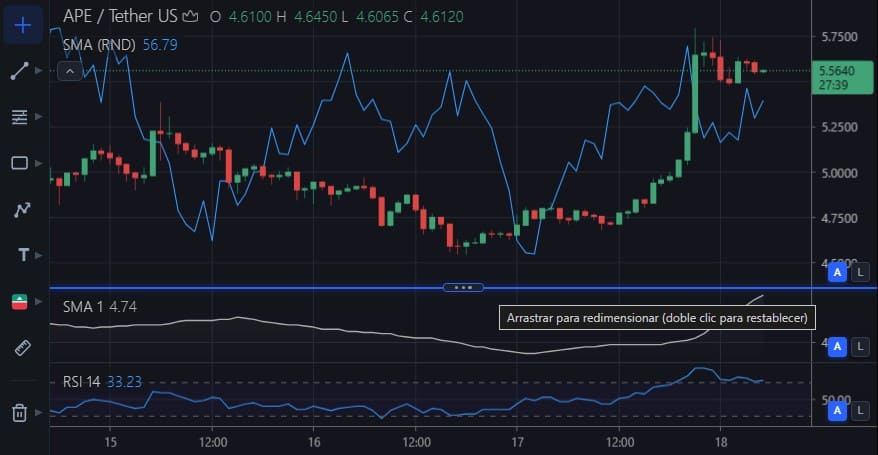
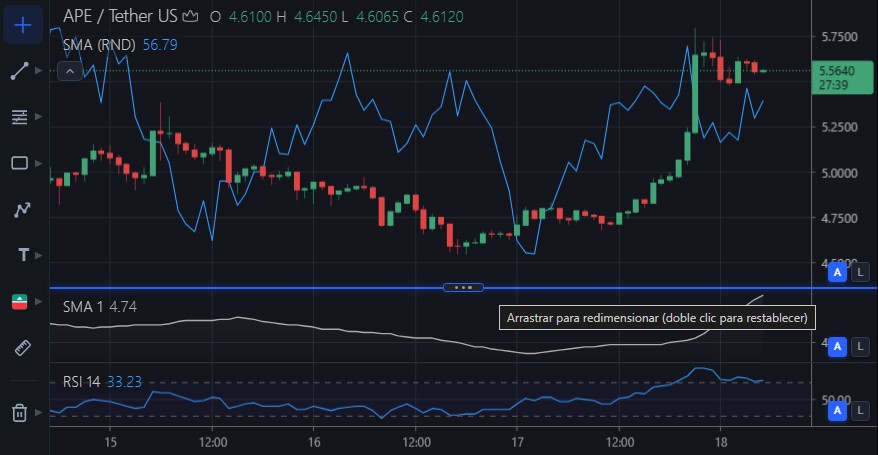
docs: add project overview and AI development skills to readmes and include preview chart image

Changed region(s): [[0.5843, 0.6769, 0.9226, 0.7077], [0.123, 0.8308, 0.1538, 0.8615]]

diff --git a/README.es.md b/README.es.md
@@ -13,6 +13,14 @@
 
 <img src="./docs/docs/public/chart2.jpg" alt="Vista previa de NightVision Charts" width="100%" style="border-radius: 8px; box-shadow: 0 4px 20px rgba(0,0,0,0.3);" />
 
+<br/><br/>
+
+### **Librería de gráficos financieros ultrarrápida y altamente personalizable para cripto, acciones y trading profesional.**
+
+**NightVision Charts** es una librería moderna, ligera y de alto rendimiento diseñada para aplicaciones web, exchanges de criptomonedas, plataformas fintech y paneles de trading algorítmico. Construida sobre un motor Canvas 2D acelerado con Svelte, ofrece un renderizado fluido a 60 FPS incluso bajo streaming continuo de datos por WebSocket y configuraciones complejas de múltiples paneles e indicadores.
+
+Ya sea que busques una alternativa abierta y flexible a TradingView, diseñar indicadores propios mediante el motor reactivo **NavyJS** o integrar herramientas interactivas de análisis técnico, NightVision te brinda libertad arquitectónica total sin dependencias pesadas ni ataduras.
+
 </div>
 
 > **Aviso y Atribución:**  
@@ -54,6 +62,13 @@
 
 ### 💾 Persistencia de Dibujos y Plantillas (Layout Persistence)
 - Exporta y restaura el estado completo del gráfico (`saveLayout()` y `loadLayout()`), incluyendo dibujos, indicadores activos, escalas, colores y distribución de paneles en `localStorage` o bases de datos remotas.
+
+### 🤖 Skills de Desarrollo Asistido por IA Incluidas (`.agents/skills/`)
+Este repositorio está preparado para desarrollo con IA e incluye guías y reglas arquitectónicas en `.agents/skills/` diseñadas para asistir a agentes de codificación (Cursor, Claude Code, Copilot, Antigravity, etc.):
+- **`night-vision-tools`**: Reglas matemáticas, proyección de coordenadas y plantillas para crear y mantener herramientas de dibujo interactivas.
+- **`nightvision-datafeed`**: Guía y especificación para implementar adaptadores de datos en tiempo real (WebSockets, paginación histórica y canales avanzados).
+- **`nightvision-indicator-builder`**: Manual de referencia para crear y portar indicadores técnicos y overlays mediante NavyJS.
+- **`nightvision-layout-persistence`**: Serialización de espacios de trabajo, auto-guardado reactivo y adaptadores de almacenamiento (*StorageAdapter*).
 
 ---
 

diff --git a/README.md b/README.md
@@ -13,6 +13,14 @@
 
 <img src="./docs/docs/public/chart2.jpg" alt="NightVision Charts Preview" width="100%" style="border-radius: 8px; box-shadow: 0 4px 20px rgba(0,0,0,0.3);" />
 
+<br/><br/>
+
+### **The ultra-fast, highly customizable charting library for financial markets, crypto, and professional trading.**
+
+**NightVision Charts** is a modern, lightweight, and high-performance financial charting library designed for web applications, crypto exchanges, fintech platforms, and algorithmic trading dashboards. Built on a hardware-accelerated 2D HTML5 Canvas engine with Svelte, it delivers smooth 60 FPS rendering even under high-frequency WebSocket data streams and complex multi-pane indicator setups.
+
+Whether you are building a full-featured TradingView alternative, creating custom algorithmic overlays using the reactive **NavyJS** script engine, or integrating interactive drawing tools, NightVision gives you complete architectural freedom with zero bloated dependencies.
+
 </div>
 
 > **Notice & Attribution:**  
@@ -54,6 +62,13 @@
 
 ### 💾 Layout & Workspace Persistence
 - Export and restore the entire chart state (`saveLayout()` and `loadLayout()`) including drawings, indicators, scales, colors, and pane splits to `localStorage` or remote databases.
+
+### 🤖 AI-Assisted Development Skills Included (`.agents/skills/`)
+This repository is AI-native and comes pre-packaged with curated architectural skills in `.agents/skills/` designed to supercharge development with AI coding agents (Cursor, Claude Code, Copilot, Antigravity, etc.):
+- **`night-vision-tools`**: Architectural rules, coordinate-projection patterns, and templates for building interactive canvas tools.
+- **`nightvision-datafeed`**: Complete guide and contract for implementing streaming WebSockets, order flow, and historical pagination adapters.
+- **`nightvision-indicator-builder`**: Reference manual for creating and porting custom NavyJS indicators and overlays.
+- **`nightvision-layout-persistence`**: Layout serialization, reactive auto-save, and storage adapter integration patterns.
 
 ---
 
